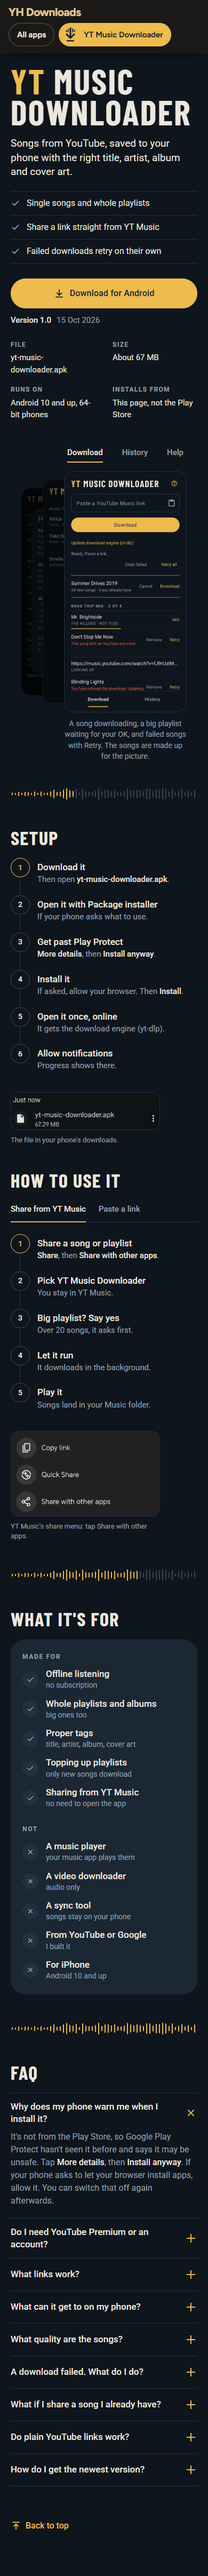
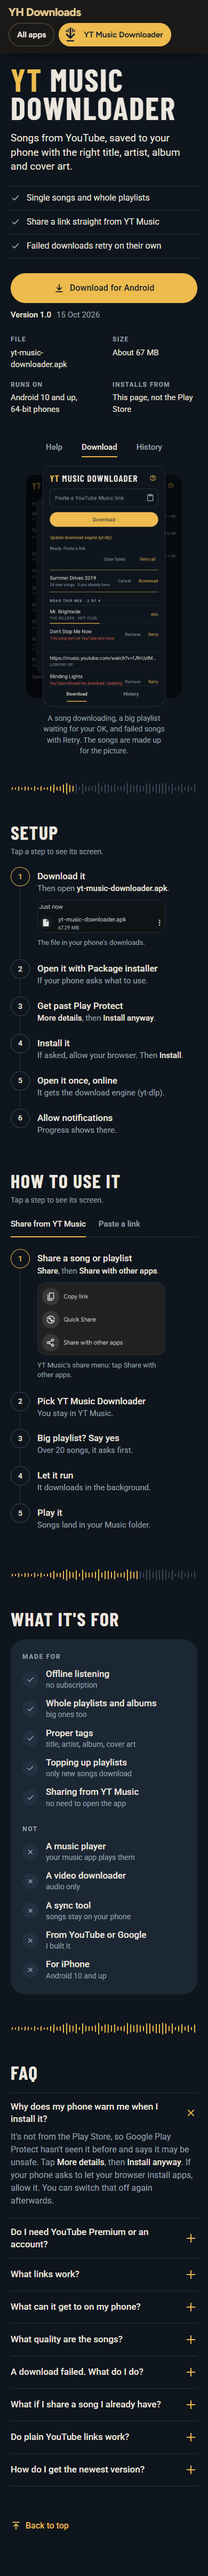
docs: second review round, every fix resolved, both pages ship
Fresh reviewers scored the 11 fixes from new screenshots (plus one of the
name on a slow load). Design notes updated to what's live first: centred
phone stack, tab order, step screens in the step on phones, the phone card.

Changed region(s): [[0.0308, 0.0, 0.9538, 0.5903], [0.1231, 0.2175, 0.1538, 0.2486]]

diff --git a/.impeccable/surfaces/yt-music-downloader-index-html.md b/.impeccable/surfaces/yt-music-downloader-index-html.md
@@ -20,14 +20,17 @@ outside the Play Store, download it and get it set up.
   made up for the picture.
 - Constraints: wears the app's own look, Liner Notes. The site header is in the
   catalogue's Warm look. Version and date sit beside the button. "Is this legal?" stays
-  out of the FAQ for good. Only what's true and public.
+  out of the FAQ for good. Only what's true and public. Fonts come from the site itself
+  (`assets/fonts/`), never another server. The site's "YH" tab icon, not the app's.
 - Memorable moment: three real phone screens in a stack with the app's tab style over
   them, and a sound wave between section groups that fills gold as you scroll.
-- Unresolved: whether the sticky header goes to one row on phones. A phone cut-off seen
-  on the old Riso page that couldn't be reproduced.
+- Unresolved: whether the sticky header goes to one row on phones.
 
 Written 2026-10-16 from what shipped, before the finish review. The build went straight
-from the picked mockup to the site with no contract on record.
+from the picked mockup to the site with no contract on record. Updated the same day
+after the user's stack change and the review fixes: the front phone moved to the centre,
+the tabs became Help, Download, History, step screens open inside the step on phones,
+and the phone cut-off was found and fixed (the name in its stand-in font on a slow load).
 
 ## Direction contract
 
@@ -39,7 +42,8 @@ and testimonials.
 OWN-WORLD: Liner Notes, from the app's `DESIGN.md`. Navy ground `#0F151D`, navy
 `#16202C`, panel `#1C2734`, highest `#23303F`, outline `#3A4757`, warm ink `#ECE7DE`,
 grey `#9AA4B1`, one gold `#EDBB4E` kept for what you tap and for progress. Barlow
-Condensed 700 capitals for the name and section headings, Roboto for the rest.
+Condensed 700 capitals for the name and section headings, Roboto for the rest. Until
+Barlow arrives, the name draws in Roboto shrunk to Barlow's width, so it never cuts off.
 Hairlines, small spaced-capital credit labels, the gold pill, text tabs with a gold
 underline, numbered rings on a thin line, credits lines with dotted leaders.
 
@@ -50,14 +54,18 @@ get past Play Protect, the two ways to use it, what it is and isn't, and find an
 FIRST VIEWPORT: one 1200px column. From 1280px, left: two-line name up to 116px with
 "YT" in gold, hook at 22px, three ticked facts on hairlines, the gold pill (at least
 320px) with version and date beside it, then credits in two columns. Right: a 320px
-phone stack with Download, History and Help tabs over it and a caption under it. On
-phones, one column, and the download button is on the first screen at 390px with the
-picture after it.
+phone stack, the front phone in the centre and the other two peeking out one each side,
+dimmed. Help, Download and History tabs over it, in that order, and a caption under it.
+On phones, one column, the name at 15vw, and the download button is on the first screen
+at 390px with the picture after it.
 
-SIGNATURE INTERACTION: a tab over the stack, or a click on a peeking phone, brings that
-screen to the front (0.55s ease-out). A step with a picture shows its real screen beside
-the steps and takes a gold ring. The wave fills gold on scroll: a third, two thirds, then
-all of it by the FAQ.
+SIGNATURE INTERACTION: a tab over the stack, or a click on a peeking phone, swaps that
+screen with the centre one (0.55s ease-out). The tabs stay in one order and the gold
+underline moves. On load the side phones match the tabs: Help left, History right. A step
+with a picture shows its real screen beside the steps and takes a gold ring. On phones
+(under 560px) the screen opens inside the tapped step, under its text, and a grey line
+under Setup and How to use it says "Tap a step to see its screen." The wave fills gold on
+scroll: a third, two thirds, then all of it by the FAQ.
 
 FORM: user-pinned. The Two-Ink Riso layout (a challenger in the first direction round),
 re-skinned in the app's Liner Notes look on 2026-10-16. The surface round `626a70e0`

diff --git a/.impeccable/surfaces/index-html.md b/.impeccable/surfaces/index-html.md
@@ -13,16 +13,18 @@ visitor succeeds when they find an app and get its file, or open its page.
 - Audience: me, people I send the link to, strangers who land on it.
 - Job: see what apps there are, tell what each does from one line, then download from
   the card or open the app's page.
-- Content: real apps only. Name, one line, version, Android version, file name. No user
-  counts, reviews or ratings exist, so none appear.
+- Content: real apps only. Name, one line, version, Android version (and 64-bit when the
+  app needs it), file name. No user counts, reviews or ratings exist, so none appear.
 - Constraints: the site's own look, apart from every app's. Each app's card wears that
-  app's colours. Dark. Download links never change.
+  app's colours. Dark. Download links never change. Fonts come from the site itself
+  (`assets/fonts/`), never another server. Tab icon: "YH" in champagne on charcoal.
 - Memorable moment: each app arrives as a block of its own colour on one shared warm
   charcoal page.
 - Unresolved: nothing on this page. The Support me page is parked in `doc/backlog.md`.
 
 Written 2026-10-16 from what shipped, before the finish review. The build went straight
-from the picked mockup to the site with no contract on record.
+from the picked mockup to the site with no contract on record. Updated the same day after
+the review fixes and the user's new phone card layout (one left edge, full-width button).
 
 ## Direction contract
 
@@ -42,8 +44,11 @@ card, tells what it does from one line, and downloads from the card or opens its
 FIRST VIEWPORT: champagne title top left, up to 104px, one muted line under it at about
 36ch. Below it the cards span the 1080px column: 80px icon left, name at 27px, the line,
 a version line; from 760px the download pill and "Setup, how to use it, FAQ" stack on
-the right. On phones the actions drop under the text. The first app's download button is
-inside the first viewport at 390px and at 1440px.
+the right. On phones (under 760px) the card has one left edge: the 60px icon sits beside
+the name, and the line, the version line, a full-width download pill and the link all
+start at the card's left edge under them. The dashed slot's text lines up with the icon
+at every width. The first app's download button is inside the first viewport at 390px
+and at 1440px.
 
 FORM: the Contents page (round 1's pick) restyled as Warm (round 3, `soft-warm`), seed
 key `0d64e648`. Changed from the mockup: champagne title, cards in each app's colours,

diff --git a/doc/finish-review.md b/doc/finish-review.md
@@ -5,6 +5,18 @@ reviewer. Both said **fix**: the look matches what I picked, nothing gets redesi
 just small fixes. **All 11 applied 16 Oct, my call**, after seeing each as a before and
 after picture.
 
+**Second round, 16 Oct: both pages "ship".** A fresh reviewer per page scored that
+page's fixes from new screenshots and the page files. Every fix came back resolved,
+and neither found anything the fixes broke.
+- Catalogue: #1, #2, #3, #8, #9, #10 resolved. My new phone card layout breaks nothing.
+- App page: #4, #5, #6, #7, #8, #10, #11 resolved. Their one caveat, that #11 was only
+  shown in a Chromium screenshot, is covered: I checked it on my phone the same day.
+- "Ship" here covers the scored fixes, not a fresh full review of either page.
+- #2, #5, #6, #8 and #10 can't show in a screenshot, so the reviewers scored those from
+  the page files.
+- New screenshots are over the old ones in `.impeccable/review/`, plus
+  `yt-music-downloader/mobile-slow-name.png`, the name with Barlow blocked, for #11.
+
 [Direction contracts the reviewers checked against: `.impeccable/surfaces/index-html.md`
 and `.impeccable/surfaces/yt-music-downloader-index-html.md`, written 16 Oct from what
 shipped. Screenshots they looked at: `.impeccable/review/catalogue/` and
@@ -88,12 +100,12 @@ committed). How each was done:
 
 ## What's left after I pick
 
-1. Apply the picked fixes.
-2. Retake the same four screenshots per page into `.impeccable/review/`, with reduced
-   motion on so the waves show their gold. Playwright can't open `file://`, so serve the
-   folder first (`python -m http.server`).
-3. A fresh reviewer scores each fix resolved, partial or unresolved. This session's
-   reviewers don't carry over.
+1. ~~Apply the picked fixes.~~ Done 16 Oct.
+2. ~~Retake the same four screenshots per page into `.impeccable/review/`, with reduced
+   motion on so the waves show their gold.~~ Done 16 Oct. Playwright can't open
+   `file://`, so serve the folder first (`python -m http.server`).
+3. ~~A fresh reviewer scores each fix resolved, partial or unresolved.~~ Done 16 Oct,
+   both "ship", see the top.
 4. Impeccable's documenter writes `DESIGN.md` and `.impeccable/design.json` from the
    built pages.
 5. Update `live-design-choices/downloads-page.md` with what changed, then commit and push.

diff --git a/CLAUDE.md b/CLAUDE.md
@@ -37,13 +37,14 @@ and the app page is the Riso layout in the app's Liner Notes look. All in
 - **Pick fixes from Impeccable's finish review, then finish it.** The review ran
   2026-10-16 and both pages came back "fix": small fixes, no redesign. **All 11 fixes
   applied and pushed 16 Oct, plus a new phone layout for the catalogue card. Picture
-  notes are in all 15 screenshots.** Left: retake the review screenshots, a fresh
-  reviewer scores the fixes, `DESIGN.md`, update `downloads-page.md`, commit and push.
-  All in [`doc/finish-review.md`](doc/finish-review.md).
+  notes are in all 15 screenshots. Second round 16 Oct: fresh reviewers scored every
+  fix resolved, both pages "ship".** Left: Impeccable's documenter writes `DESIGN.md`,
+  fix `PRODUCT.md`'s stale line, update `downloads-page.md`, commit and push. All in
+  [`doc/finish-review.md`](doc/finish-review.md).
   - Direction contracts for both pages got written for the review, from what shipped,
-    in `.impeccable/surfaces/`. **The app page's one is behind:** it still has the
-    old phone stack (both peeking left) and tab order (Download, History, Help).
-    Update it from `downloads-page.md` before the fresh reviewer runs.
+    in `.impeccable/surfaces/`. Both brought up to date 16 Oct, after the stack change,
+    the review fixes and the new card layout, so the fresh reviewer checks against
+    what's live.
 - **Open question on YT Music Downloader's page:** whether the sticky header goes to one
   row on phones. Reviewer: it can't fit. Their view is in
   [`doc/finish-review.md`](doc/finish-review.md).
